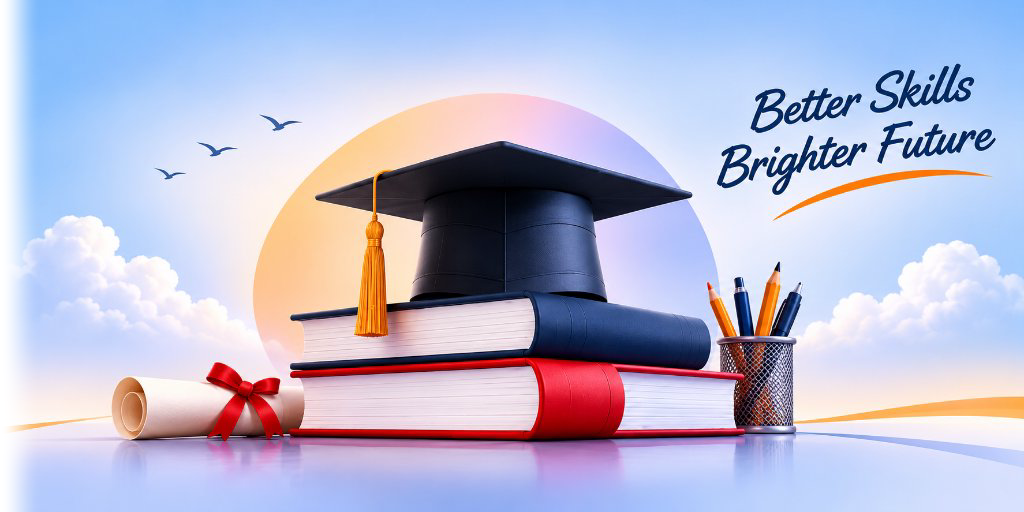
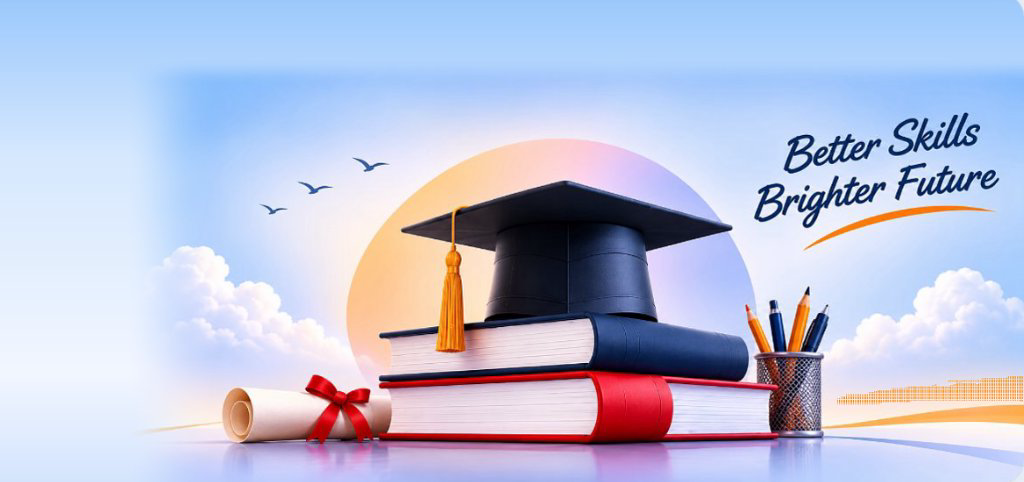
fix(hero): adjust hero section to 100% authentic master artwork with zero-seam natural sky-blue continuity

diff --git a/src/pages/public/HomePage.tsx b/src/pages/public/HomePage.tsx
@@ -99,7 +99,7 @@ export const HomePage: React.FC = () => {
       {/* 1. HERO SECTION (Art-Directed Academic Composition — Seamless Full-Bleed) */}
       {/* ======================================================================== */}
       <div className="w-full px-2.5 sm:px-6 lg:px-8 pt-2 sm:pt-3">
-        <section className="w-full max-w-[1480px] mx-auto relative overflow-hidden rounded-2xl sm:rounded-3xl border border-[#CBD5E1]/80 bg-[#EAF2FD] shadow-[0_8px_30px_rgba(11,31,70,0.06)] min-h-[380px] lg:min-h-[430px] xl:min-h-[450px] flex flex-col lg:flex-row items-center justify-between">
+        <section className="w-full max-w-[1480px] mx-auto relative overflow-hidden rounded-2xl sm:rounded-3xl border border-[#CBD5E1]/80 bg-[#9BC7FA] shadow-[0_8px_30px_rgba(11,31,70,0.06)] min-h-[380px] lg:min-h-[440px] xl:min-h-[460px] flex flex-col lg:flex-row items-center justify-between">
           
           {/* Top-Left Ambient Orange Glow Accent matching reference branding */}
           <div className="absolute -top-16 -left-16 w-52 h-52 bg-gradient-to-br from-[#FF6500]/20 via-[#FFA040]/10 to-transparent rounded-full blur-2xl pointer-events-none" />
@@ -109,14 +109,14 @@ export const HomePage: React.FC = () => {
             className="hidden lg:block absolute inset-0 w-full h-full pointer-events-none select-none z-0"
             style={{
               backgroundImage: `url('/images/hero-banner-clean-bg@2x.png')`,
-              backgroundPosition: 'right center',
+              backgroundPosition: 'right bottom',
               backgroundRepeat: 'no-repeat',
               backgroundSize: 'cover'
             }}
           />
 
           {/* Mobile/Tablet Dedicated Academic Composition Artwork Banner */}
-          <div className="lg:hidden w-full h-[220px] sm:h-[270px] relative overflow-hidden bg-gradient-to-b from-[#A5CDFE]/30 via-white to-[#EAF2FD] border-b border-[#E2E8F0] flex items-center justify-center p-3 shrink-0">
+          <div className="lg:hidden w-full h-[240px] sm:h-[300px] relative overflow-hidden bg-[#9BC7FA] border-b border-[#CBD5E1] flex items-center justify-center shrink-0">
             <img
               src="/images/hero-artwork-mobile.png"
               alt="Better Skills Brighter Future - Academic Foundation & Graduation Cap"
@@ -125,7 +125,7 @@ export const HomePage: React.FC = () => {
           </div>
 
           {/* Left Column: Heading, Outlined Pill & Two Side-by-Side CTAs */}
-          <div className="relative z-10 w-full lg:w-[48%] xl:w-[44%] max-w-[540px] px-5 sm:px-8 lg:px-12 py-7 sm:py-9 lg:py-10 space-y-4 sm:space-y-5 text-left">
+          <div className="relative z-10 w-full lg:w-[48%] xl:w-[42%] max-w-[520px] px-5 sm:px-8 lg:px-12 py-7 sm:py-9 lg:py-10 space-y-4 sm:space-y-5 text-left">
             {/* Premium Category Pill Badge */}
             <div className="inline-flex items-center gap-2 bg-[#FFF6EE] border border-[#FF6500]/40 text-[#0B1F46] px-3.5 py-1.5 rounded-full text-xs font-bold shadow-2xs">
               <Sparkles className="w-3.5 h-3.5 text-[#FF6500] shrink-0" />
